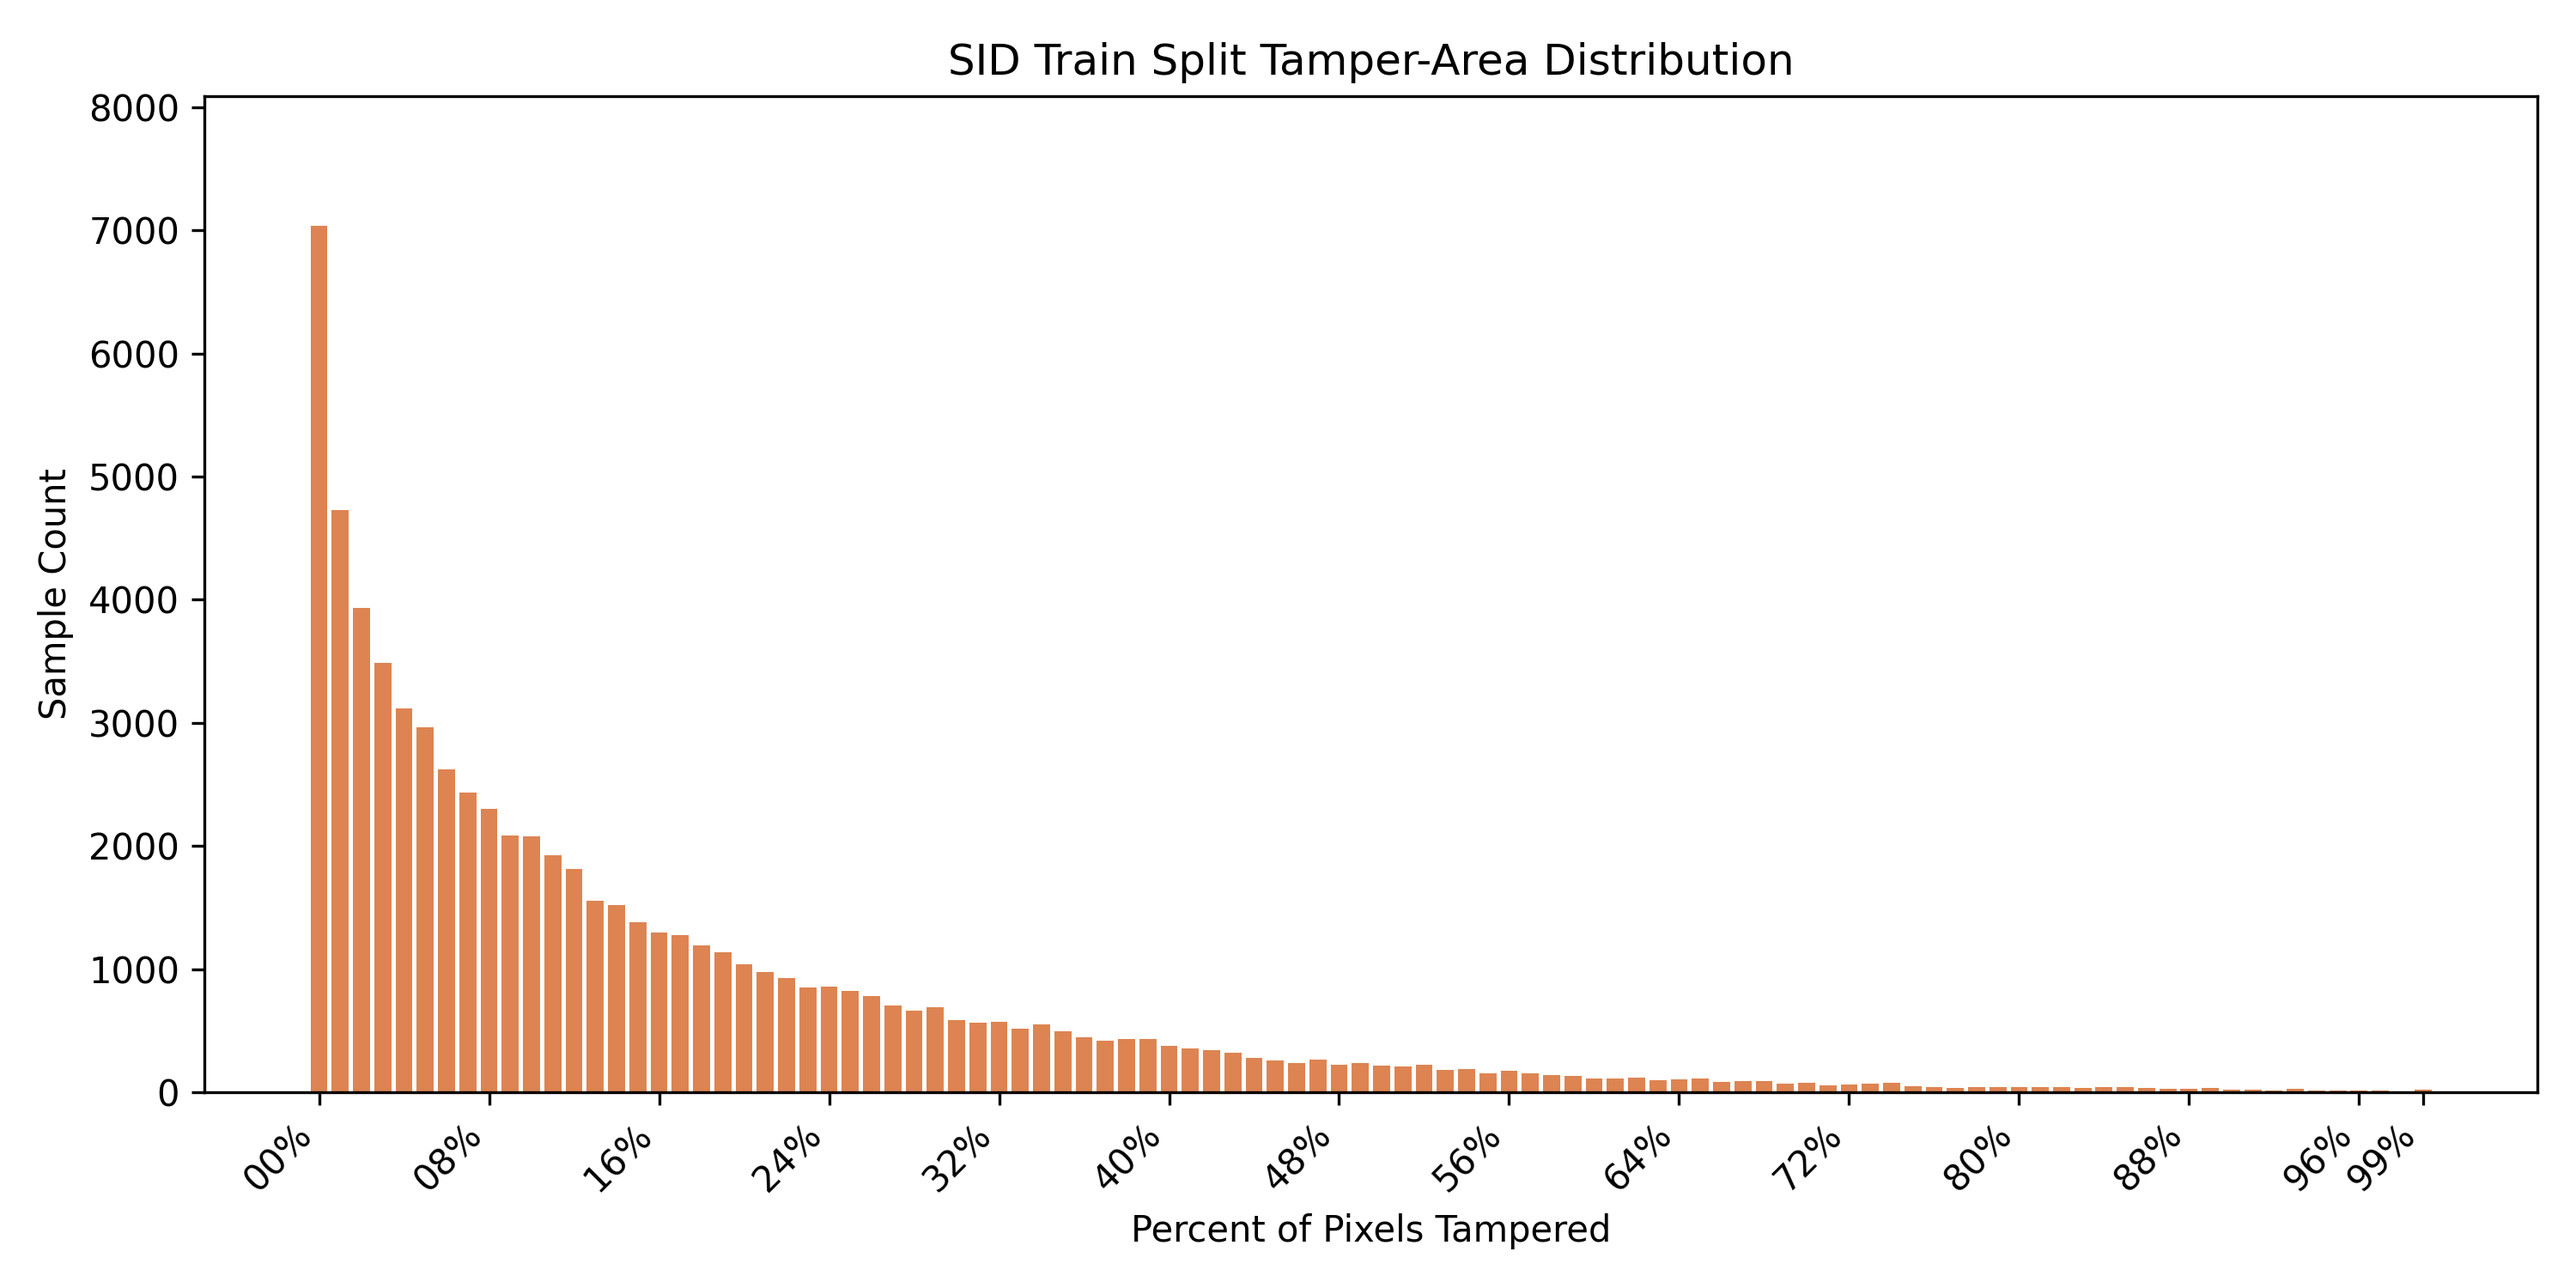
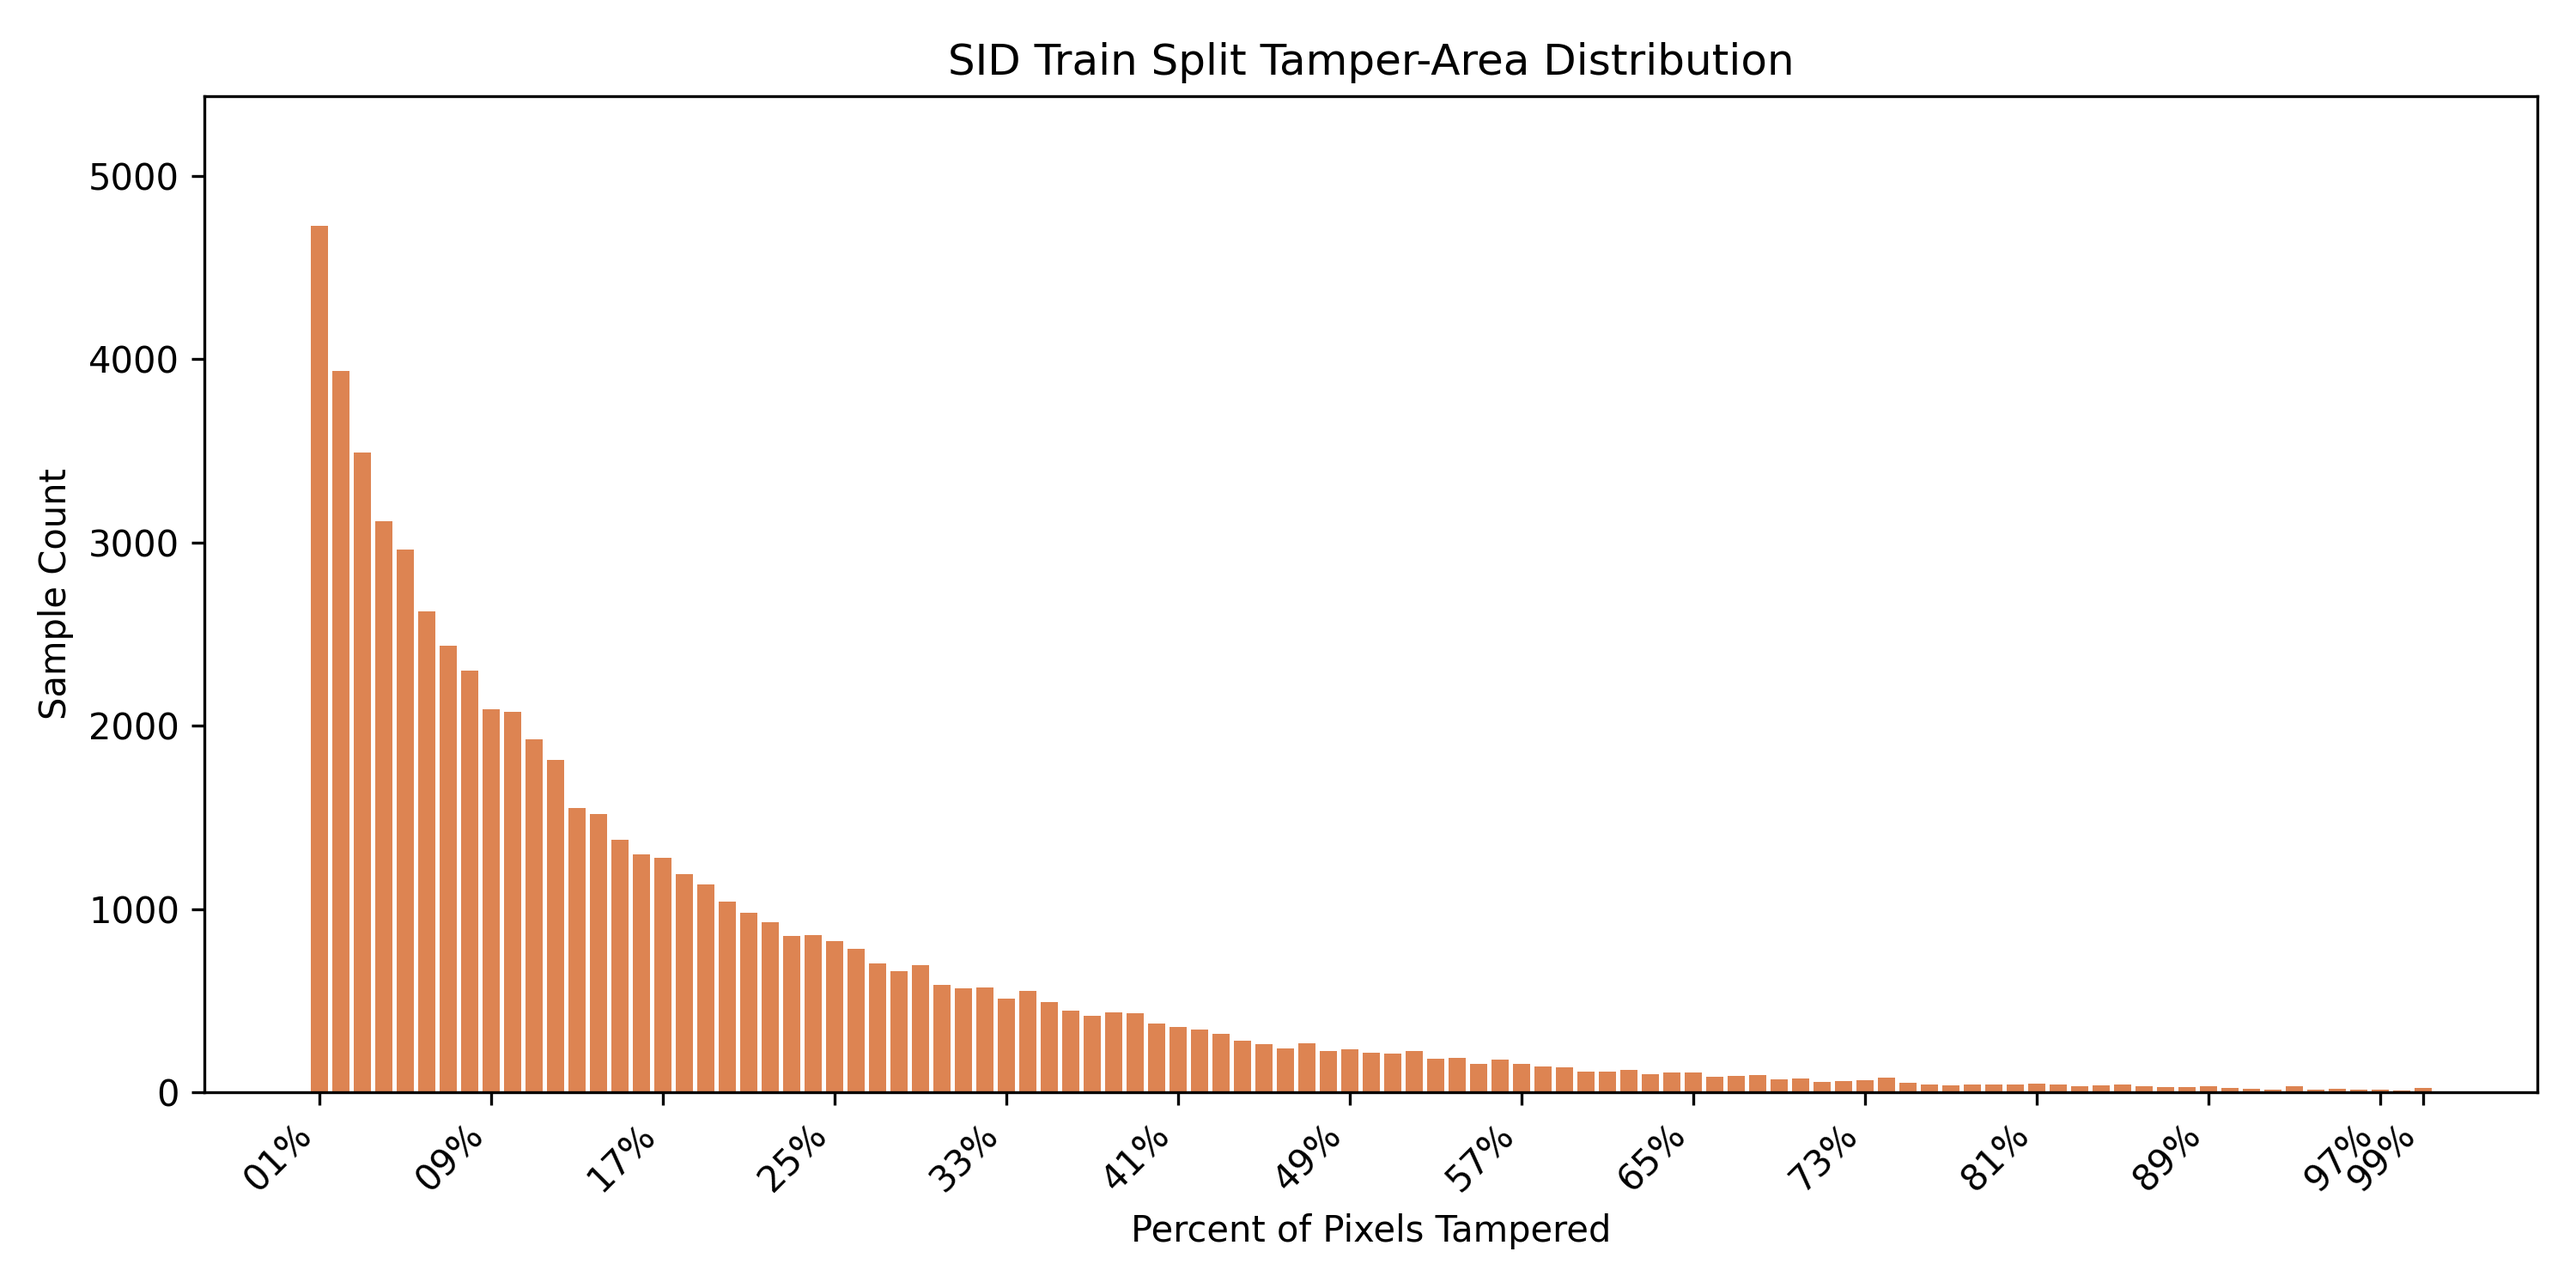
feat: add tamper interval reporting plots

diff --git a/notebooks/class_balance_report.py b/notebooks/class_balance_report.py
@@ -164,15 +164,16 @@ def plot_tamper_distribution(
     if not tamper_pixels:
         return None
 
-    # Sort bucket labels numerically ("05%", "10%", ...)
-    def _bucket_key(label: str) -> int:
-        try:
-            return int(label.rstrip("%"))
-        except ValueError:
-            return 0
+    filtered_items = {
+        bucket: count
+        for bucket, count in tamper_pixels.items()
+        if _bucket_to_percent(bucket) > 0
+    }
+    if not filtered_items:
+        return None
 
-    buckets = sorted(tamper_pixels.keys(), key=_bucket_key)
-    values = np.array([tamper_pixels[bucket] for bucket in buckets], dtype=float)
+    buckets = sorted(filtered_items.keys(), key=_bucket_to_percent)
+    values = np.array([filtered_items[bucket] for bucket in buckets], dtype=float)
     total = values.sum()
 
     # Guard against division by zero if counters are somehow empty.
@@ -205,6 +206,146 @@ def plot_tamper_distribution(
     return plot_path
 
 
+def _bucket_to_percent(label: str) -> int:
+    try:
+        return int(label.rstrip("%"))
+    except ValueError:
+        return 0
+
+
+def plot_tamper_interval_summary(
+    output_dir: Path,
+    split: str,
+    tamper_pixels: Counter,
+    interval: int = 10,
+) -> Path | None:
+    if not tamper_pixels:
+        return None
+
+    aggregated: Dict[str, int] = {}
+    for bucket, count in tamper_pixels.items():
+        pct = _bucket_to_percent(bucket)
+        if pct == 0:
+            continue
+        start = (pct // interval) * interval
+        end = min(start + interval - 1, 99)
+        display_start = max(start, 1)
+        key = f"{display_start:02d}-{end:02d}%"
+        aggregated[key] = aggregated.get(key, 0) + count
+
+    if not aggregated:
+        return None
+
+    ordered = sorted(
+        aggregated.items(),
+        key=lambda item: int(item[0].split("-")[0])
+    )
+    labels = [item[0] for item in ordered]
+    values = np.array([item[1] for item in ordered], dtype=float)
+    total = values.sum()
+    percentages = 100.0 * values / total if total else np.zeros_like(values)
+
+    fig, ax = plt.subplots(figsize=(10, 5))
+    bars = ax.bar(labels, values, color="#4c72b0")
+    ax.set_title(f"SID {split.title()} Tamper Coverage (Interval {interval}% bins)")
+    ax.set_ylabel("Sample Count")
+    ax.set_xlabel("Tamper Coverage Interval")
+
+    ax.set_ylim(0, values.max() * 1.5 if values.size else 1)
+
+    for bar, pct, count in zip(bars, percentages, values.astype(int)):
+        height = bar.get_height()
+        ax.text(
+            bar.get_x() + bar.get_width() / 2,
+            height,
+            f"{pct:.1f}%\n({count})",
+            ha="center",
+            va="bottom",
+            fontsize=9,
+        )
+
+    plt.xticks(rotation=45, ha="right")
+    fig.tight_layout()
+
+    plot_path = output_dir / f"tamper_interval_summary_{split}.png"
+    fig.savefig(plot_path, dpi=300)
+    plt.close(fig)
+    return plot_path
+
+
+def plot_tamper_interval_facets(
+    output_dir: Path,
+    split: str,
+    tamper_pixels: Counter,
+    interval: int = 10,
+) -> Path | None:
+    if not tamper_pixels:
+        return None
+
+    bucket_counts = {
+        pct: count
+        for bucket, count in tamper_pixels.items()
+        if (pct := _bucket_to_percent(bucket)) > 0
+    }
+    if not bucket_counts:
+        return None
+    max_pct = max(bucket_counts.keys())
+
+    intervals: List[Tuple[int, int]] = []
+    start = 0
+    while start <= max_pct:
+        end = min(start + interval - 1, 99)
+        intervals.append((start, end))
+        start += interval
+
+    # Keep only intervals that have any samples.
+    intervals = [
+        (start_pct, end_pct)
+        for (start_pct, end_pct) in intervals
+        if any(start_pct <= pct <= end_pct for pct in bucket_counts)
+    ]
+    if not intervals:
+        return None
+
+    n = len(intervals)
+    cols = min(5, n)
+    rows = int(np.ceil(n / cols))
+
+    fig, axes = plt.subplots(rows, cols, figsize=(4 * cols, 3.5 * rows), sharey=True)
+    axes = np.atleast_1d(axes).flatten()
+    global_max = max(bucket_counts.values())
+
+    for ax, (start_pct, end_pct) in zip(axes, intervals):
+        subset = {
+            pct: bucket_counts[pct]
+            for pct in sorted(bucket_counts)
+            if start_pct <= pct <= end_pct
+        }
+
+        if subset:
+            labels = [f"{pct:02d}%" for pct in subset.keys()]
+            values = list(subset.values())
+            ax.bar(labels, values, color="#dd8452")
+            display_start = max(start_pct, 1)
+            ax.set_title(f"{display_start:02d}-{end_pct:02d}%")
+            ax.tick_params(axis="x", labelrotation=45)
+            ax.set_ylim(0, global_max * 1.2)
+        else:
+            ax.set_visible(False)
+
+    # Hide any remaining empty axes.
+    for ax in axes[len(intervals):]:
+        ax.set_visible(False)
+
+    fig.suptitle(f"SID {split.title()} Tamper Coverage Zoomed by {interval}% Interval", fontsize=14)
+    fig.tight_layout(rect=(0, 0, 1, 0.96))
+
+    plot_path = output_dir / f"tamper_interval_facets_{split}.png"
+    fig.savefig(plot_path, dpi=300)
+    plt.close(fig)
+    return plot_path
+
+
 def main() -> None:
     args = parse_args()
     cfg = load_config(args.config)
@@ -227,11 +368,17 @@ def main() -> None:
     summary_path = write_summary_json(output_dir, args.split, class_counts, tamper_pixels)
     plot_path = plot_class_balance(output_dir, args.split, class_counts)
     tamper_plot_path = plot_tamper_distribution(output_dir, args.split, tamper_pixels)
+    interval_summary_path = plot_tamper_interval_summary(output_dir, args.split, tamper_pixels)
+    interval_facets_path = plot_tamper_interval_facets(output_dir, args.split, tamper_pixels)
 
     print(f"Wrote JSON summary to {summary_path}")
     print(f"Wrote class balance plot to {plot_path}")
     if tamper_plot_path is not None:
         print(f"Wrote tamper distribution plot to {tamper_plot_path}")
+    if interval_summary_path is not None:
+        print(f"Wrote tamper interval summary plot to {interval_summary_path}")
+    if interval_facets_path is not None:
+        print(f"Wrote tamper interval facet plot to {interval_facets_path}")
 
 
 if __name__ == "__main__":
